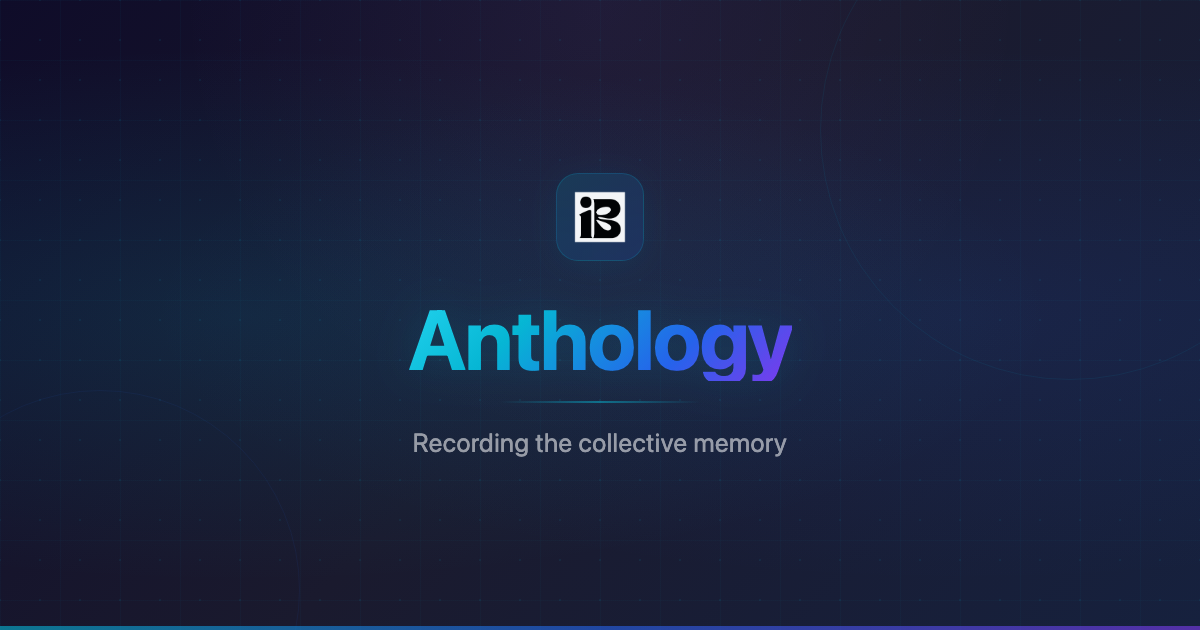
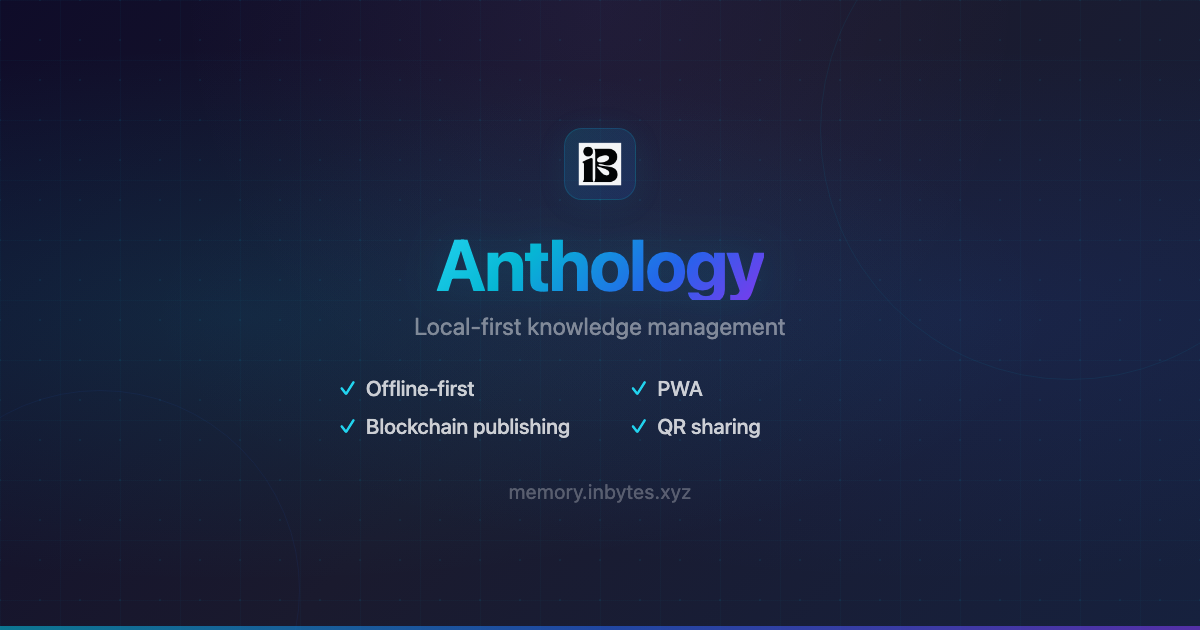
refactor: update og card

Changed region(s): [[0.2775, 0.2111, 0.6783, 0.7238], [0.4317, 0.754, 0.555, 0.8143]]

diff --git a/public/og-image.html b/public/og-image.html
@@ -1,0 +1,189 @@
+<!DOCTYPE html>
+<html lang="en">
+<head>
+<meta charset="UTF-8" />
+<meta name="viewport" content="width=device-width, initial-scale=1.0" />
+<title>OG Image</title>
+<style>
+  * { margin: 0; padding: 0; box-sizing: border-box; }
+
+  body {
+    width: 1200px;
+    height: 630px;
+    overflow: hidden;
+    font-family: Inter, -apple-system, BlinkMacSystemFont, "Segoe UI", Roboto, sans-serif;
+    background: #0f0c29;
+    display: flex;
+    align-items: center;
+    justify-content: center;
+  }
+
+  .card {
+    width: 1200px;
+    height: 630px;
+    position: relative;
+    overflow: hidden;
+    background:
+      radial-gradient(ellipse at 20% 50%, rgba(6, 182, 212, 0.12) 0%, transparent 60%),
+      radial-gradient(ellipse at 80% 50%, rgba(37, 99, 235, 0.10) 0%, transparent 60%),
+      radial-gradient(ellipse at 50% 0%, rgba(194, 132, 252, 0.06) 0%, transparent 50%),
+      linear-gradient(135deg, #0f0c29 0%, #1a1a2e 50%, #16213e 100%);
+  }
+
+  .grid {
+    position: absolute;
+    inset: 0;
+    background-image:
+      linear-gradient(rgba(6, 182, 212, 0.03) 1px, transparent 1px),
+      linear-gradient(90deg, rgba(6, 182, 212, 0.03) 1px, transparent 1px);
+    background-size: 60px 60px;
+  }
+
+  .dots {
+    position: absolute;
+    inset: 0;
+    background-image:
+      radial-gradient(circle, rgba(6, 182, 212, 0.08) 1px, transparent 1px);
+    background-size: 40px 40px;
+    background-position: 20px 20px;
+  }
+
+  .ornament-top-right {
+    position: absolute;
+    top: -120px;
+    right: -120px;
+    width: 500px;
+    height: 500px;
+    border: 1px solid rgba(6, 182, 212, 0.08);
+    border-radius: 50%;
+  }
+
+  .ornament-bottom-left {
+    position: absolute;
+    bottom: -160px;
+    left: -100px;
+    width: 400px;
+    height: 400px;
+    border: 1px solid rgba(37, 99, 235, 0.08);
+    border-radius: 50%;
+  }
+
+  .content {
+    position: relative;
+    z-index: 1;
+    display: flex;
+    flex-direction: column;
+    align-items: center;
+    justify-content: center;
+    height: 100%;
+    padding: 50px 80px;
+  }
+
+  .icon-wrapper {
+    width: 72px;
+    height: 72px;
+    border-radius: 18px;
+    background: linear-gradient(135deg, rgba(6, 182, 212, 0.15), rgba(37, 99, 235, 0.15));
+    border: 1px solid rgba(6, 182, 212, 0.2);
+    display: flex;
+    align-items: center;
+    justify-content: center;
+    margin-bottom: 28px;
+    box-shadow: 0 4px 32px rgba(6, 182, 212, 0.08);
+  }
+
+  .icon-wrapper img {
+    width: 44px;
+    height: 44px;
+    opacity: 0.95;
+  }
+
+  .title {
+    font-size: 72px;
+    font-weight: 700;
+    letter-spacing: -1.5px;
+    line-height: 1;
+    background: linear-gradient(135deg, #22d3ee 0%, #06b6d4 30%, #2563eb 70%, #7c3aed 100%);
+    -webkit-background-clip: text;
+    -webkit-text-fill-color: transparent;
+    background-clip: text;
+    filter: drop-shadow(0 0 20px rgba(6, 182, 212, 0.15));
+    margin-bottom: 12px;
+  }
+
+  .subtitle {
+    font-size: 24px;
+    font-weight: 400;
+    color: rgba(255, 255, 255, 0.45);
+    letter-spacing: 0.2px;
+    margin-bottom: 36px;
+  }
+
+  .features {
+    display: grid;
+    grid-template-columns: 1fr 1fr;
+    gap: 14px 60px;
+    margin-bottom: 42px;
+  }
+
+  .feature {
+    display: flex;
+    align-items: center;
+    gap: 10px;
+    font-size: 21px;
+    font-weight: 500;
+    color: rgba(255, 255, 255, 0.78);
+  }
+
+  .check {
+    color: #22d3ee;
+    font-size: 20px;
+    flex-shrink: 0;
+  }
+
+  .url {
+    font-size: 20px;
+    font-weight: 400;
+    color: rgba(255, 255, 255, 0.28);
+    letter-spacing: 0.5px;
+  }
+
+  .footer-line {
+    position: absolute;
+    bottom: 0;
+    left: 0;
+    right: 0;
+    height: 4px;
+    background: linear-gradient(90deg, #06b6d4, #2563eb, #7c3aed);
+    opacity: 0.6;
+  }
+</style>
+</head>
+<body>
+  <div class="card">
+    <div class="grid"></div>
+    <div class="dots"></div>
+    <div class="ornament-top-right"></div>
+    <div class="ornament-bottom-left"></div>
+
+    <div class="content">
+      <div class="icon-wrapper">
+        <img src="IB_icon.png" alt="Anthology logo" />
+      </div>
+      <div class="title">Anthology</div>
+      <div class="subtitle">Local-first knowledge management</div>
+
+      <div class="features">
+        <div class="feature"><span class="check">&#x2713;</span> Offline-first</div>
+        <div class="feature"><span class="check">&#x2713;</span> PWA</div>
+        <div class="feature"><span class="check">&#x2713;</span> Blockchain publishing</div>
+        <div class="feature"><span class="check">&#x2713;</span> QR sharing</div>
+      </div>
+
+      <div class="url">memory.inbytes.xyz</div>
+    </div>
+
+    <div class="footer-line"></div>
+  </div>
+</body>
+</html>
